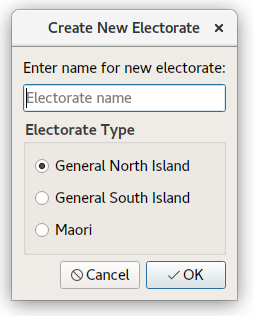
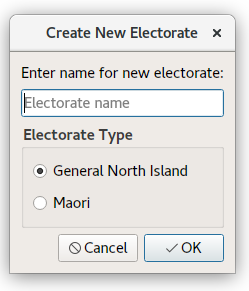
[ui_design] Remove option to create South island electorate from mockups

Changed region(s): [[0.0281, 0.0, 0.9558, 0.9588], [0.1124, 0.6804, 0.3655, 0.7423]]

diff --git a/documentation/ui_design/mockups/mock_dock.py b/documentation/ui_design/mockups/mock_dock.py
@@ -110,9 +110,7 @@ class CreateElectorateDialog(QDialog):
         l2 = QVBoxLayout()
         radio = QRadioButton("General North Island")
         radio.setChecked(True)
-        l2.addWidget(radio)
-        radio = QRadioButton("General South Island")
-        l2.addWidget(radio)        
+        l2.addWidget(radio)  
         radio = QRadioButton("Maori")
         l2.addWidget(radio)
         frame.setLayout(l2)
